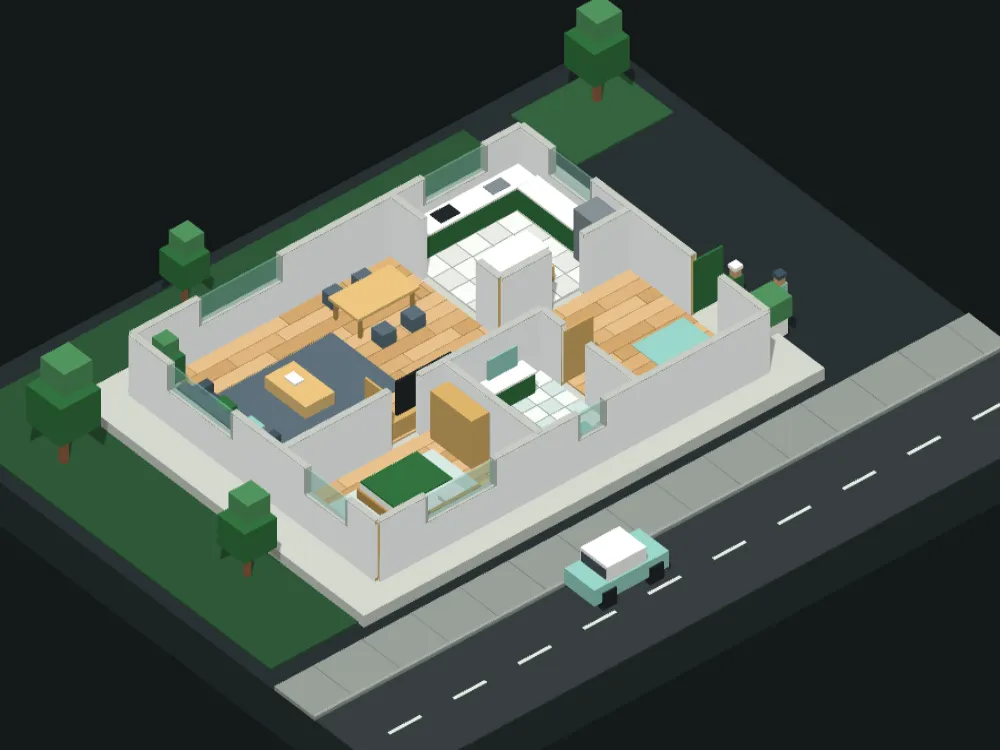
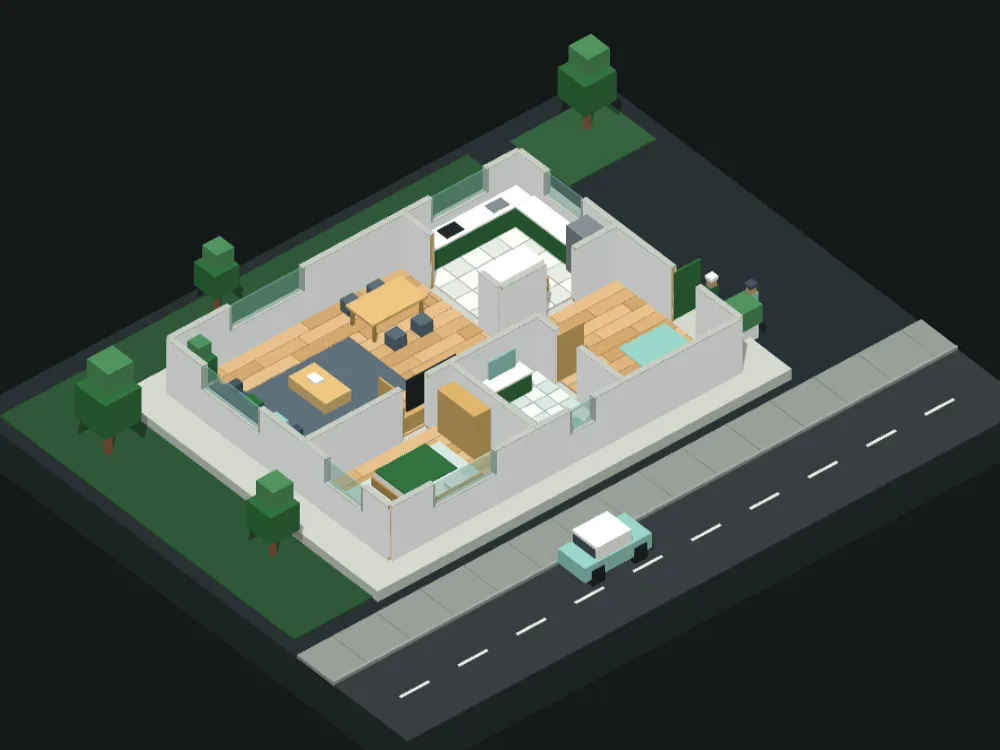
wip: marketing v2 passes the marketing validators

Changed region(s): [[0.0, 0.0, 1.0, 1.0]]

diff --git a/marketing/next/index.html b/marketing/next/index.html
@@ -18,7 +18,7 @@
     (function () {
       var d = document.documentElement, q = location.search, c = 'js';
       var lowPower = (navigator.connection && navigator.connection.saveData) || (navigator.deviceMemory && navigator.deviceMemory <= 2) || (navigator.hardwareConcurrency && navigator.hardwareConcurrency <= 2);
-      var can = !!window.WebGLRenderingContext && !!window.requestAnimationFrame && !!window.IntersectionObserver;
+      var can = !!window.WebGLRenderingContext && !!window.IntersectionObserver;
       if (/[?&]still=1/.test(q) || /[?&]full=1/.test(q)) can = false;
       else if (/[?&]still=0/.test(q)) lowPower = false;
       if (can && !lowPower) c += ' is3d';
@@ -37,9 +37,12 @@
       <span>MAGE ID</span>
     </a>
     <nav class="navlinks" aria-label="Site">
-      <a href="#prices">Your Prices</a>
+      <a href="/playbook.html">How It Works</a>
+      <a href="/features/">Features</a>
+      <a href="/compare/">Compare</a>
       <a href="/pricing.html">Pricing</a>
-      <a href="/access.html">iPhone Invite</a>
+      <a href="/demo.html">Demo</a>
+      <a href="/support.html">Support</a>
     </nav>
     <a class="btn small" href="https://app.mageid.app">Start Free</a>
   </header>
@@ -311,7 +314,7 @@
         <a href="/terms.html">Terms</a>
       </nav>
     </div>
-    <nav class="trust-strip" aria-label="About this company">
+    <nav class="trust-strip" aria-label="About this company" style="border-top:1px solid rgba(128,128,128,0.3)">
       <a href="/proof.html">New product, no reviews yet, and we say so</a>
       <a href="/who-built-this.html">Who built this</a>
       <a href="/changelog.html">Changelog</a>

diff --git a/marketing/next/page.js b/marketing/next/page.js
@@ -211,7 +211,7 @@
     if (job) {
       job.setS(target, still);
       var hk = clamp(1 - scrollS / 0.7, 0, 1); hk = hk * hk * (3 - 2 * hk);
-      if (P.shot !== null) job.setLayout(0.5, 0.5, 0.94, true);
+      if (P.shot !== null) job.setLayout(0.5, 0.5, 0.8, true);
       else if (wide()) job.setLayout(0.56 + 0.11 * hk, 0.47 + 0.03 * hk, 0.44 + 0.08 * hk, still);
       else job.setLayout(0.5, 0.44, 0.98, still);
     }
@@ -241,7 +241,7 @@
         var x = pt[0], y = pt[1];
         if (!c.w) { c.w = c.el.lastChild.offsetWidth; c.h = c.el.lastChild.offsetHeight; }
         var vw = scene.clientWidth, left = c.el.classList.contains('l');
-        x = left ? clamp(x, c.w - 14, vw + 14) : clamp(x, 30, vw - c.w + 14);
+        x = left ? clamp(x, c.w - 14, vw + 14) : clamp(x, 30, vw - c.w + (narrow ? 14 : -2));
         y = Math.max(y, c.h + (narrow ? 30 : 100));
         c.el.style.transform = 'translate(' + x.toFixed(1) + 'px,' + y.toFixed(1) + 'px)';
       }

diff --git a/marketing/next/site.css b/marketing/next/site.css
@@ -290,14 +290,14 @@ h1 span:last-child { color: var(--green-lite); }
 .foot nav { display: flex; flex-wrap: wrap; gap: 6px 22px; }
 .foot a { display: inline-block; padding: 4px 0; text-decoration: none; }
 .foot a:hover { color: #fff; text-decoration: underline; }
-.trust-strip { margin-top: 20px; padding-top: 16px; font-weight: 600; border-top: 1px solid var(--ink-line); }
+.trust-strip { margin-top: 20px; padding-top: 16px; font-weight: 600; }
 .aia-notice { margin-top: 16px; max-width: 70em; font-size: 13px; line-height: 1.55; color: var(--mute); }
 
 /* things that rise into view lower down the page */
 .js .rise { opacity: 0; transform: translateY(34px); transition: opacity .6s ease, transform .9s var(--out); }
 .js .rise.in { opacity: 1; transform: none; }
 
-@media (max-width: 899px) {
+@media (max-width: 1099px) {
   .navlinks { display: none; }
   .top .btn { margin-left: auto; }
 }
